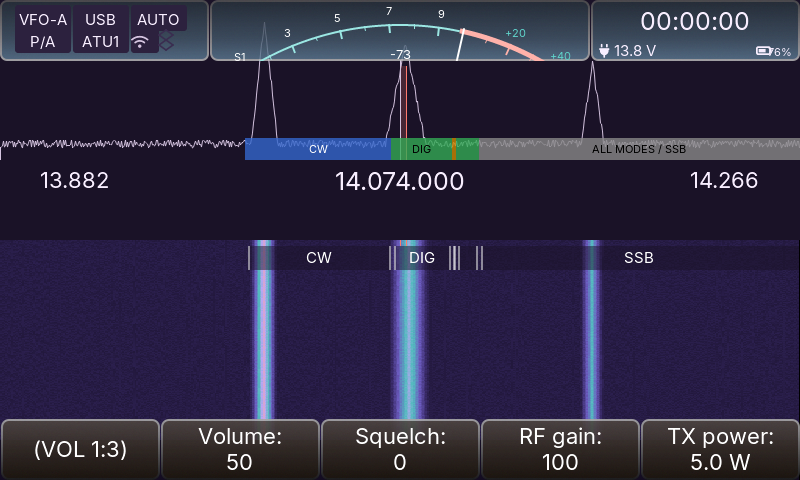
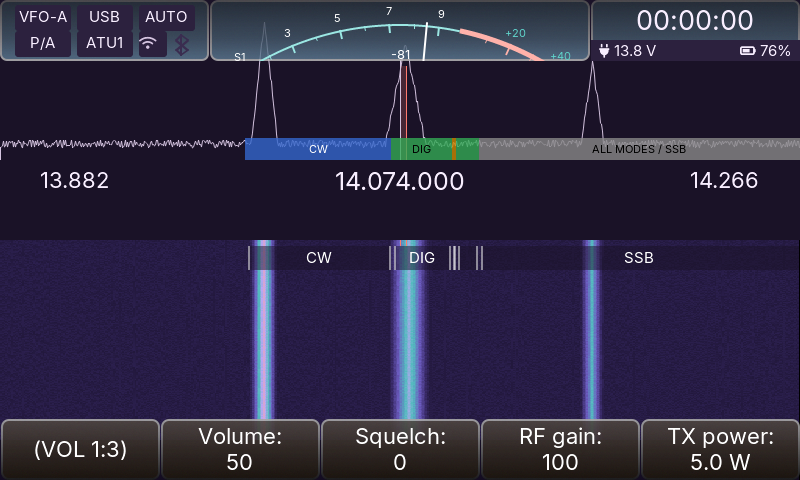
CI rojo en UI Functional Tests: la evidencia natural quedo incoherente con #285
El primer run del PR (40037883146) fallo `functional` en el paso
`Python framework (ruff, format, ty, unit tests)`:

  FAILED tools/ab_testing/tests/test_natural.py::test_evidence_is_profiled_delimited_and_deterministic
  E  AssertionError: FAIL: metrics.flushed_pixels = 12308352
     (the settled capture must keep its 1100896 px and the natural frames add their own)

Causa: el valor esperado vive en TRES lugares y #285 solo actualizo uno.

* `tests/natural_evidence.py::SETTLE_PX` -> lo actualice a 1100896 (checker del
  gate local y del pytest).
* `tools/ab_testing/reports/NATURAL-ECOFINAL/*.json` -> el ARTEFACTO comprometido
  seguia con el settle viejo: 12308352 = 1100352 + 11208000.
* `tools/ab_testing/tests/test_natural.py` -> los pins del framework seguian en
  1100352 / 716352 / "clock 10272 px".

El `run_all_tests.sh --quick` local no corre el pytest del framework; el job del
CI si (`uv run pytest -m "not e2e"`, 13 deselected).

Arreglo (regenerar el artefacto + pins coherentes con lo medido, sin aflojar nada):

* Artefacto regenerado con el procedimiento documentado de las re-baselines
  anteriores: `tests/check_harness_natural.sh` (rebuild + los 5 modos) mas
  `--bench-natural` sobre `main-natural-eco`; las 7 salidas JSON+PNG copiadas a
  `tools/ab_testing/reports/NATURAL-ECOFINAL/`, con el bloque nuevo en
  `sha256.txt` y la seccion de re-baseline en su `README.md`.
* Pins del pytest con los numeros MEDIDOS: 1100352 -> 1100896, 716352 -> 716896,
[…]

diff --git a/tools/ab_testing/tests/test_natural.py b/tools/ab_testing/tests/test_natural.py
@@ -84,7 +84,10 @@ def test_evidence_is_profiled_delimited_and_deterministic() -> None:
     # OPT-4 #150: the clock's equality guard (src/clock.c) suppresses every tick
     # whose text did not change, and the harness pins time(), so the clock
     # invalidates 0 times in the natural run (before the guard: 1).
-    assert "clock 10272 px x 0 tick(s)" in result.stdout
+    # AB-HOME285 (issue #285): el reloj sube a sony_44 y su etiqueta crece 2 px,
+    # asi que el rectangulo que invalida por tick pasa de 10272 px a 10486 px
+    # (214x49) -- medido con el reloj de pared avanzando con el reloj virtual.
+    assert "clock 10486 px x 0 tick(s)" in result.stdout
 
 
 def test_natural_section_is_extra_and_carries_no_wall_clock() -> None:
@@ -110,8 +113,11 @@ def test_natural_section_is_extra_and_carries_no_wall_clock() -> None:
     # of one two-line power label): 6 / 1100352, it was 5 / 1111840. The natural
     # frames themselves are untouched (the clock does not fire with time()
     # pinned) and the rendered PNG is byte-identical run to run.
+    # AB-HOME285 (issue #285): the clock is taller (font_digit(&sony_44)) and the
+    # status band is a new surface of the panel, so the settle moved again:
+    # 6 / 1100896 (+544 px, the same 6 flushes and the same 66 natural frames).
     assert document["metrics"]["flushes"] == 6 + totals["flushes"]
-    assert document["metrics"]["flushed_pixels"] == 1100352 + totals["flushed_px"]
+    assert document["metrics"]["flushed_pixels"] == 1100896 + totals["flushed_px"]
 
 
 def test_forced_mode_is_unchanged_by_the_natural_one() -> None:
@@ -140,7 +146,7 @@ def test_display_off_evidence_renders_nothing() -> None:
     La propiedad la mide el `natural` block (todo en cero) y el test nativo del
     backlight; aca queda pineada sobre la evidencia, porque la captura de la
     pantalla apagada es exactamente un repaint de pantalla completa mas liviana
-    (AB-HOME250: 1100352 - 384000 = 716352 px) y el mismo PNG que con la pantalla
+    (AB-HOME285, #285: 1100896 - 384000 = 716896 px) y el mismo PNG que con la pantalla
     encendida. El
     instrumento del redibujo offscreen de la cascada (src/waterfall.c) queda en 0
     contra una por fila con la pantalla encendida: el panel oscuro saltea el computo
@@ -156,6 +162,8 @@ def test_display_off_evidence_renders_nothing() -> None:
     # (5 with the old power clock); 1 less is the capture without its full-screen
     # repaint.
     assert document["metrics"]["flushes"] == 6 - 1
-    assert document["metrics"]["flushed_pixels"] == 1100352 - 800 * 480
+    # AB-HOME285: the settle of every mode moved +544 px with the same flushes
+    # (the clock's boot invalidation); see the evidence README of #285.
+    assert document["metrics"]["flushed_pixels"] == 1100896 - 800 * 480
     lit = _load("forced")["metrics"]["framebuffer_fnv1a"]
     assert document["metrics"]["framebuffer_fnv1a"] == lit

diff --git a/docs/evidencia/2026-10-23-ui-polish/home/README.md b/docs/evidencia/2026-10-23-ui-polish/home/README.md
@@ -480,3 +480,98 @@ sin rebasar corre los gates viejos).
   | `python3 tests/check_wcag.py` | **0** | 1062 pares OK, 0 fallas |
   | `python3 tests/check_wcag_rendered.py` | **0** | `PASS`, 11 preexistentes (= las de #286), 0 nuevas, 0 regresiones |
   | `sh tests/run_all_tests.sh --quick` | **0** | 22 OK, 0 fallos (mismos SKIP declarados) |
+
+---
+
+## 12. El CI (`UI Functional Tests`) y la coherencia de la evidencia natural
+
+El primer run del PR (run `40037883146`) pasó **Visual Regression**, **Performance**
+(13m58s), **Quality Contracts** y el gate de contraste, y falló **Functional** en el
+paso `Python framework (ruff, format, ty, unit tests)`:
+
+```text
+FAILED tools/ab_testing/tests/test_natural.py::test_evidence_is_profiled_delimited_and_deterministic
+E  AssertionError: FAIL: metrics.flushed_pixels = 12308352
+   (the settled capture must keep its 1100896 px and the natural frames add their own)
+1 failed, 232 passed, 13 deselected
+```
+
+### 12.1 De dónde sale el valor esperado (son **tres** lugares, no uno)
+
+| dónde | qué es | estado antes del arreglo |
+|---|---|---|
+| `tests/natural_evidence.py::SETTLE_PX` | la **constante** del checker | actualizada por mí a `1100896` |
+| `tools/ab_testing/reports/NATURAL-ECOFINAL/*.json` | el **artefacto de evidencia comprometido** (regenerable) | **viejo**: `metrics.flushed_pixels = 12308352` = `1100352` (settle) + `11208000` (frames) |
+| `tools/ab_testing/tests/test_natural.py` | **pins** del framework (pytest) sobre ese artefacto | **viejos**: `1100352`, `716352`, `clock 10272 px` |
+
+Yo había actualizado solo la constante: el checker (que corre el gate local **y** el
+pytest del CI) pasó a exigir `1100896 + frames` contra un artefacto que seguía
+teniendo el settle viejo ⇒ el CI falló. Los pins del pytest estaban viejos por lo
+mismo.
+
+**Por qué mi `run_all_tests.sh --quick` no lo vio**: ese comando **no** corre el
+pytest del framework; el job del CI corre `uv run pytest -m "not e2e"` (el log del
+CI dice `13 deselected`, y el `--quick` no incluye ese paso). Desde ahora, el
+comando del CI se corre tal cual (§12.3).
+
+### 12.2 El arreglo (regenerar el artefacto + pins coherentes, no "para que pase")
+
+1. **Artefacto regenerado** con el comando documentado (el mismo de las re-baselines
+   anteriores): `sh tests/check_harness_natural.sh` (rebuild + los 5 modos del gate)
+   más `--bench-natural` sobre `main-natural-eco`, copiando las 7 salidas
+   (JSON+PNG) a `tools/ab_testing/reports/NATURAL-ECOFINAL/`, con el bloque nuevo
+   en `sha256.txt` y la sección de re-baseline en su `README.md`.
+2. **Pins del pytest** actualizados **con los números medidos**:
+   `1100352 → 1100896`, `716352 → 716896`, `clock 10272 px → 10486 px`, y los
+   docstrings/comentarios con la procedencia (`AB-HOME285`).
+3. **Dos números de documentación** que la corrida también movía y estaban viejos
+   desde #250: el comentario del gate `tests/check_harness_natural.sh` (reloj
+   10272 → 10486) y la lista de rectángulos del `tools/ui_harness/README.md`
+   (reloj `580,0 220x72`/15840 → `586,0 214x49`/10486; el rectángulo del BT ya no
+   aparece por la guarda de igualdad de OPT-4 #150).
+
+### 12.3 El delta medido (y por qué es el de mi cambio)
+
+Nada del perfil natural se movió; lo único que se movió es el **settle de la
+captura** (`metrics`), y **+544 px en los siete modos, con los mismos flushes**:
+
+| modo | antes (`65f7842c`) | después (`3cc409e9`) | delta |
+|---|---|---|---|
+| `natural`/`run1` | 72 / 12308352 | **72 / 12308896** | +544 px, 0 flushes |
+| `forced` | 9 / 2252352 | **9 / 2252896** | +544 |
+| `static` | 13 / 1290752 | **13 / 1291296** | +544 |
+| `cli` | 21 / 3656352 | **21 / 3656896** | +544 |
+| `off` | 5 / 716352 | **5 / 716896** | +544 |
+| `main-natural-eco` | 24 / 3762602 | **24 / 3763146** | +544 |
+| `natural.totals` (los 40 frames) | 11208000 px / 66 rects / 66 flushes | **idéntico** | 0 |
+
+**Explicación medida, no hipótesis**: los 40 frames naturales **no** dependen del
+reloj (con `time()` fijo el texto no cambia y la guarda de igualdad del #150 apaga
+la invalidación), así que el perfil no se mueve; lo que cambia es la invalidación
+de **arranque** del panel del reloj: la etiqueta de la hora es 2 px más alta
+(`sony_44`) y la banda de estado es una superficie nueva, y esa unión es 544 px
+más grande. El costo **por tick** cuando el segundo cambia (medido con el reloj de
+pared avanzando con el reloj virtual) es **+214 px** (10272 → 10486 px, `214×49`),
+o sea +2.1% de la invalidación del reloj, una vez por segundo en la radio. El
+proxy de flushes sobre las 205 fixtures (§6) sigue en **0.00% de flushes / +0.04%
+de px**, así que el +544 px del settle no es una regresión de operación: es un
+costo de arranque de 544 px (0.05% de la captura).
+
+### 12.4 El comando del CI, corrido tal cual
+
+`working-directory: tools/ab_testing` (`logs/ci-python-framework.log`):
+
+| comando | exit | salida |
+|---|---|---|
+| `uv sync` | 0 | deps del grupo dev instaladas |
+| `uv run ruff check .` | **0** | `All checks passed!` |
+| `uv run ruff format --check .` | **0** | `200 files already formatted` |
+| `uv run ty check src tests` | **0** | `All checks passed!` |
+| `uv run pytest -m "not e2e"` | **0** | **`233 passed, 13 deselected`** (0 failed) |
+
+Y el resto de los gates locales, re-corridos sobre el árbol del arreglo (el arreglo
+solo toca la evidencia, los pins del framework y documentación: **ningún binario de
+la ROM cambia**): `check_info_bar` **0**, `check_wcag` **0**,
+`check_wcag_rendered` **0** (11 preexistentes, PASS), natural/wakeups/determinism
+**PASS**, el proxy de flushes **0 fuera de presupuesto** y
+`sh tests/run_all_tests.sh --quick` **0** (22 OK, 0 fallos).

diff --git a/tools/ab_testing/reports/NATURAL-ECOFINAL/README.md b/tools/ab_testing/reports/NATURAL-ECOFINAL/README.md
@@ -162,3 +162,48 @@ segundo pasa de **15549 px** (`581,0,219,71`, el reloj de potencia de `main` en
 vista hora) a **10272 px** (`586,0,214,48`, la línea del reloj del #250) en
 `main-natural`, y a 7490 px (`586,0,214,35`) en `main-frecuencia-dseg` (dígitos
 segmentados). El reloj permanente invalida menos píxeles por segundo que el viejo.
+
+## Re-baseline 2026-10-23 — UI POLISH 1 HOME (#285, épica #284)
+
+El reloj sube a `font_digit(&sony_44)` (la etiqueta de la hora pasa de 209×31 a
+209×33), el porcentaje de batería sube a `&sony_22` y la fila de estado estrena
+una **banda opaca full-width** del rol `TC(bar)` debajo de las etiquetas
+(`src/clock.c`), y la runa de BT pasa de un zigzag a **dos trazos** (brazos +
+espina, `src/info.c`). La evidencia se re-generó con el binario de esta revisión
+(`tests/check_harness_natural.sh` más `--bench-natural` sobre `main-natural-eco`),
+como las veces anteriores.
+
+Lo que **no** se mueve: el perfil de los 40 frames naturales (espectro 132000 px
+× 27, cascada 196000 px × 39, `natural.totals` 11208000 px en 66 rectángulos / 66
+flushes, el control `--natural-static` en 190400 px con sus 7 band-info y
+`--display-off` en 0 px), la idempotencia (`run1` y `natural` byte a byte) y el
+histograma de rectángulos. Con `time()` fijo el reloj no cambia su texto y la
+guarda de igualdad de OPT-4 #150 lo apaga, así que los frames naturales no
+dependen del reloj: **el costo por tick no entra en esta medición**.
+
+Lo que sí cambia es el **settle de la captura** (el bloque `metrics`) de los
+siete modos: la invalidación de arranque del panel del reloj es 2 px más alta y
+suma la superficie nueva de la banda, así que el settle sube **+544 px** con los
+mismos flushes. El bloque `metrics` no expone los rectángulos del settle, así que
+la descomposición exacta no se puede citar; el número está medido sobre el binario
+de esta revisión y el control `--display-off` lo verifica por diferencia
+(`SETTLE_PX − FULL_SCREEN_PX`).
+
+| campo | antes (#250 `65f7842c`) | después (#285 `3cc409e9`) |
+|---|---|---|
+| `metrics.flushes` (captura `main-natural`) | 72 | **72** (6 + 66, sin cambio) |
+| `metrics.flushed_pixels` (captura `main-natural`) | 12308352 | **12308896** (+544) |
+| `--display-off` `metrics.flushes` / `flushed_pixels` | 5 / 716352 | **5 / 716896** (+544) |
+| `static.json` `metrics.flushes` / `flushed_pixels` | 13 / 1290752 | **13 / 1291296** (+544) |
+| `cli.json` `metrics.flushes` / `flushed_pixels` | 21 / 3656352 | **21 / 3656896** (+544) |
+| `forced.json` `metrics.flushes` / `flushed_pixels` | 9 / 2252352 | **9 / 2252896** (+544) |
+| `main-natural-eco` `metrics.flushes` / `flushed_pixels` | 24 / 3762602 | **24 / 3763146** (+544) |
+| PNG de todos los modos | — | **cambian** (la tinta del panel del reloj) |
+
+El +544 px es el settle de **arranque** de la captura, no costo de operación: con
+el reloj de pared avanzando con el reloj virtual (parche local de `__wrap_time`,
+no versionado) el rectángulo que invalida el reloj cuando cambia el segundo pasa
+de **10272 px** (`586,0,214,48`) a **10486 px** (`586,0,214,49`), o sea **+214 px
+por tick de 500 ms** (+2.1%; son los 2 px de alto que creció la etiqueta de la
+hora), y el reloj invalida una vez por segundo en la radio. Los sha256 nuevos de
+los siete PNG están en `sha256.txt`, junto con este bloque de re-baseline.

diff --git a/tools/ui_harness/README.md b/tools/ui_harness/README.md
@@ -315,9 +315,12 @@ invalidation** — halving the invalidated area of the spectrum moves neither
   asked to flush. With the harness' full-screen draw buffer the two are 1:1.
 * `rects` is the evidence: the invalidated rectangles of that frame, `x,y,w,h`.
   On `main-natural` every one of them is a region a firmware timer invalidates
-  (spectrum `0,0 800x165`, waterfall `0,235 800x245`, clock `580,0 220x72`, band
-  info `0,241 800x34`, BT icon `152,23 30x36`): the bench invalidates nothing on
-  its own.
+  (spectrum `0,0 800x165`, waterfall `0,235 800x245`, clock `586,0 214x49`, band
+  info `0,241 800x34`): the bench invalidates nothing on its own. El reloj y el
+  icono/runa de BT solo dejan su rectangulo cuando el valor cambia: con `time()`
+  fijo y las guardas de igualdad de OPT-4 #150 no aparecen, y sus cajas estan
+  documentadas en `tests/natural_evidence.py` (medidas con el reloj de pared
+  avanzando; la del reloj la movio el reloj mas alto de #285).
 * Nothing in the block is a wall clock value, so two runs with the same seed and
   the same frame count write the same bytes (PNG included).
 * `--natural-static` runs the same loop **without** the data drive: the spectrum
@@ -333,7 +336,8 @@ invalidation** — halving the invalidated area of the spectrum moves neither
 fixture in the four modes, checks the PNG and the whole JSON are identical across
 two natural runs, and checks the produced areas against the profile of UI-07
 increment 1 (spectrum 132000 px per FFT frame, waterfall 196000 px per row, clock
-15840 px per 500 ms tick), the drive cadence against `src/dsp.cpp`'s constants,
+10486 px per 500 ms tick -- re-measured for the permanent clock of #250 and the
+taller one of #285), the drive cadence against `src/dsp.cpp`'s constants,
 and that `--bench` still repaints the whole 384000 px screen. The raw output of a
 run is in `tools/ab_testing/reports/NATURAL-ECOFINAL/`.
 
